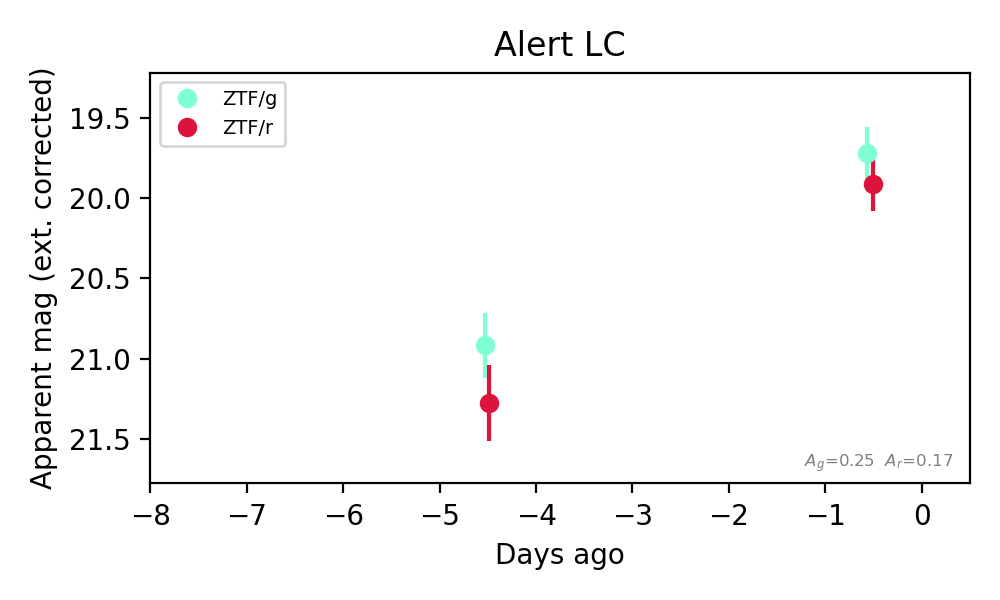
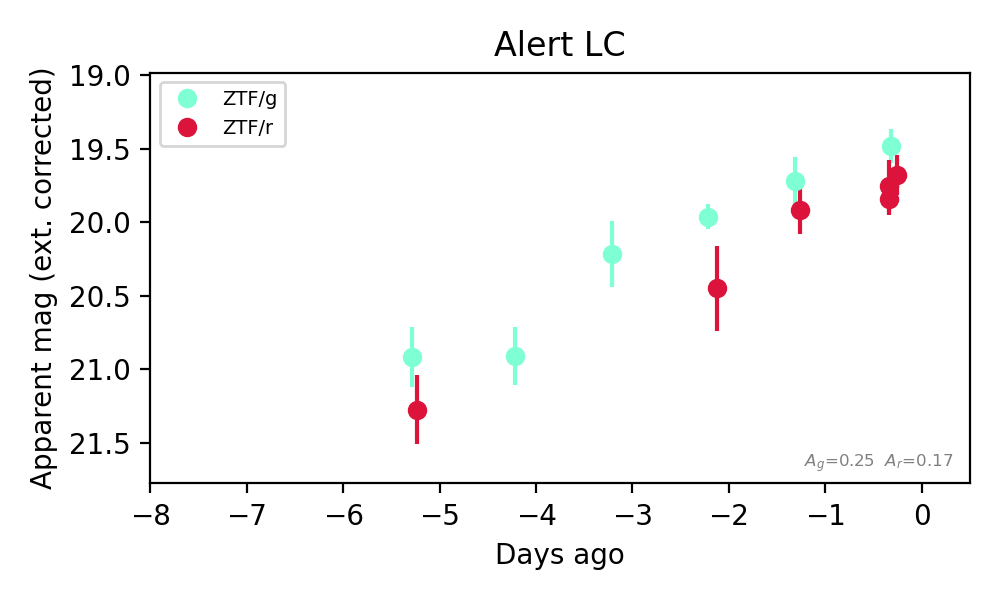
Update HTML from cron job on Tue Sep 15 07:16:22 AM EDT 2026

diff --git a/html/20260915_fastcand.html b/html/20260915_fastcand.html
@@ -1,0 +1,1 @@
+<!doctype html><html><head><title>SOURCE MARSHAL</title><style>                  * {                     box-sizing: border-box;                  }                /* Create two equal columns that floats next to each other */                .column {                         float: left;                         width: 50%;                         padding: 10px;                         #height: 220px; /* Should be removed. Only for demonstration */                }                /* Clear floats after the columns */                .row:after {                        content: "";                        display: table;                        clear: both;                }                /* Rounded corner definition */                #rcorners2 {                    border-radius: 15px;                    border: 2px solid #73AD21;                    padding: 15px;                     width: 80%;                }                table, th, td {                    border: 1px solid black;                    border-collapse: collapse;                }                th, td {                    padding: 5px;                }                th {                    text-align: right;                }                .boxed {                    width: 300px;                    border: 3px outset green;                    text-align: center;                    font-size: 20px;                    margin: 10px;                }                 </style></head><body><font size="5" color="green">Candidate List 20260915</font></br><font size="3" color="green">Last night &mdash; ZTF: 2,435 passed basic cuts (168 young) &middot; LSST: 0 passed basic cuts (0 young)</font></br></br><a href=20260914_fastcand.html target="_blank"><font size="3" color="green">Previous Day</font></a>&nbsp;&nbsp;&nbsp;&nbsp;<a href=20260916_fastcand.html target="_blank"><font size="3" color="green">Next Day</font></a>&nbsp;&nbsp;&nbsp;&nbsp;<br><br><font size="4" color="green"><a href="#sec1">Section 1: New Sources (age<1d)</a></font>&nbsp;&nbsp;&nbsp;&nbsp;<font size="4" color="green"><a href="#sec2">Section 2: Old (1-5d) sources observed last night</a></font></br><font size="1" color="white">placeholder</font></br><hr style="width:50%;text-align:left;margin-left:0"><br><div id="sec1"></div><div class="boxed">Section 1: New Afterglow/FBOT Cands Last Night (0)</div><br><br><br><div id="sec2"></div><div class="boxed">Section 2: Older Sources Observed Last Night (10)</div><div id="ZTF26abswzfk"></div>0. <a href="#ZTF26absxtws"><b><font size="3">[ZTF] ZTF26absxtws (FBOT?)</font></b></a>&nbsp;&nbsp;&nbsp;&nbsp;<a href=#top>[Back to Top]</a>&nbsp;&nbsp;&nbsp;&nbsp;<a href=./ZTF26absxtws_announcement.txt>[Share]</a>&nbsp;&nbsp;&nbsp;&nbsp;<a href=./ZTF26absxtws_swifttoo.txt>[Trigger Swift]</a></br>&nbsp;&nbsp;&nbsp;&nbsp;[<a href="https://fritz.science/brokers?objectId=ZTF26absxtws&survey=ZTF&ra=334.4473907&dec=-27.7288971&radius=3" target="_blank">Fritz Alert</a>]&nbsp;&nbsp;&nbsp;&nbsp;[<a href="https://fritz.science/source/ZTF26absxtws" target="_blank">Fritz Source</a>]&nbsp;&nbsp;&nbsp;&nbsp;[<a href="https://lasair-ztf.lsst.ac.uk/objects/ZTF26absxtws/" target="_blank">Lasair</a>]</br>RA, Dec: 334.44739, -27.7289&nbsp;&nbsp;&nbsp;&nbsp;22h17m47.37s, -27d-43m-44.03s</br>Galactic (l, b): 22.84422, -56.04122&nbsp;&nbsp;&nbsp;&nbsp;ext(g-r) = 0.017</br></br><img src="./ZTF26absxtws_triplet.png" height="200"><a href = http://ps1images.stsci.edu/cgi-bin/ps1cutouts?pos=334.447391-27.728897&filter=color&filter=g&filter=r&filter=i&filter=z&filter=y&filetypes=stack&auxiliary=data&size=240&output_size=240&verbose=0&autoscale=99.500000><img src="./ZTF26absxtws_ps1.png" height="200"></a><a href = http://legacysurvey.org/viewer?ra=334.447391&dec=-27.728897&zoom=16&layer=ls-dr10><img src="ZTF26absxtws_ls.png" height="200"></a></br><br><br>TESS: Sectors [  1  28  68  95 106]<br><br><br><br><br><b>PS1: 1 source in 3 arcsec</b>&nbsp;&nbsp;&nbsp;&nbsp;Closest: d = 0.35 arcsec&nbsp;&nbsp;&nbsp;&nbsp;photoz=0.44+/-0.36&nbsp;&nbsp;&nbsp;&nbsp;<b>peak abs mag = -23.60</b><br>LegacySurvey: 0 sources in 3 arcsec</br><br><img src="ZTF26absxtws_alert_lc.png" height="300"><br>Extinction-corrected gr color:<br>From alerts: -0.16 +/- 0.15 mag<br><br>Rise Rate:<br>g: 0.22 mag/day <br>r: 0.28 mag/day <br><br>Fade Rate:<br><br><br><div id="ZTF26absxhrh"></div>1. <a href="#ZTF26abthpmr"><b><font size="3">[ZTF] ZTF26abthpmr (FBOT?)</font></b></a>&nbsp;&nbsp;&nbsp;&nbsp;<a href=#top>[Back to Top]</a>&nbsp;&nbsp;&nbsp;&nbsp;<a href=./ZTF26abthpmr_announcement.txt>[Share]</a>&nbsp;&nbsp;&nbsp;&nbsp;<a href=./ZTF26abthpmr_swifttoo.txt>[Trigger Swift]</a></br>&nbsp;&nbsp;&nbsp;&nbsp;[<a href="https://fritz.science/brokers?objectId=ZTF26abthpmr&survey=ZTF&ra=346.1075752&dec=35.4085926&radius=3" target="_blank">Fritz Alert</a>]&nbsp;&nbsp;&nbsp;&nbsp;[<a href="https://fritz.science/source/ZTF26abthpmr" target="_blank">Fritz Source</a>]&nbsp;&nbsp;&nbsp;&nbsp;[<a href="https://lasair-ztf.lsst.ac.uk/objects/ZTF26abthpmr/" target="_blank">Lasair</a>]</br>RA, Dec: 346.10758, 35.40859&nbsp;&nbsp;&nbsp;&nbsp;23h 4m25.82s, 35d24m30.93s</br>Galactic (l, b): 99.5254, -22.55293&nbsp;&nbsp;&nbsp;&nbsp;ext(g-r) = 0.082</br></br><img src="./ZTF26abthpmr_triplet.png" height="200"><a href = http://ps1images.stsci.edu/cgi-bin/ps1cutouts?pos=346.107575+35.408593&filter=color&filter=g&filter=r&filter=i&filter=z&filter=y&filetypes=stack&auxiliary=data&size=240&output_size=240&verbose=0&autoscale=99.500000><img src="./ZTF26abthpmr_ps1.png" height="200"></a><a href = http://legacysurvey.org/viewer?ra=346.107575&dec=+35.408593&zoom=16&layer=ls-dr10><img src="ZTF26abthpmr_ls.png" height="200"></a></br><br><br>TESS: Sectors [16 56 83]<br><br><br><br><br><b>PS1: 1 source in 3 arcsec</b>&nbsp;&nbsp;&nbsp;&nbsp;Closest: d = 1.64 arcsec&nbsp;&nbsp;&nbsp;&nbsp;photoz=0.53+/-0.09&nbsp;&nbsp;&nbsp;&nbsp;<b>peak abs mag = -23.65</b><br>LegacySurvey: 0 sources in 3 arcsec</br><br><img src="ZTF26abthpmr_alert_lc.png" height="300"><br>Extinction-corrected gr color:<br>From alerts: -0.29 +/- 0.13 mag<br><br>Rise Rate:<br>g: 0.88 mag/day <br>r: 0.57 mag/day <br><br>Fade Rate:<br><br><br><div id="ZTF26absxtws"></div>2. <a href="#ZTF26abtqfyy"><b><font size="3">[ZTF] ZTF26abtqfyy (FBOT?)</font></b></a>&nbsp;&nbsp;&nbsp;&nbsp;<a href=#top>[Back to Top]</a>&nbsp;&nbsp;&nbsp;&nbsp;<a href=./ZTF26abtqfyy_announcement.txt>[Share]</a>&nbsp;&nbsp;&nbsp;&nbsp;<a href=./ZTF26abtqfyy_swifttoo.txt>[Trigger Swift]</a></br>&nbsp;&nbsp;&nbsp;&nbsp;[<a href="https://fritz.science/brokers?objectId=ZTF26abtqfyy&survey=ZTF&ra=342.96098645&dec=16.02354735&radius=3" target="_blank">Fritz Alert</a>]&nbsp;&nbsp;&nbsp;&nbsp;[<a href="https://fritz.science/source/ZTF26abtqfyy" target="_blank">Fritz Source</a>]&nbsp;&nbsp;&nbsp;&nbsp;[<a href="https://lasair-ztf.lsst.ac.uk/objects/ZTF26abtqfyy/" target="_blank">Lasair</a>]</br>RA, Dec: 342.96099, 16.02355&nbsp;&nbsp;&nbsp;&nbsp;22h51m50.64s, 16d 1m24.77s</br>Galactic (l, b): 85.48641, -38.00262&nbsp;&nbsp;&nbsp;&nbsp;ext(g-r) = 0.075</br></br><img src="./ZTF26abtqfyy_triplet.png" height="200"><a href = http://ps1images.stsci.edu/cgi-bin/ps1cutouts?pos=342.960986+16.023547&filter=color&filter=g&filter=r&filter=i&filter=z&filter=y&filetypes=stack&auxiliary=data&size=240&output_size=240&verbose=0&autoscale=99.500000><img src="./ZTF26abtqfyy_ps1.png" height="200"></a><a href = http://legacysurvey.org/viewer?ra=342.960986&dec=+16.023547&zoom=16&layer=ls-dr10><img src="ZTF26abtqfyy_ls.png" height="200"></a></br><br><br>TESS: Sectors [56 83]<br>SDSS (<15 kpc):Found SDSS phot-z: z=0.20; <b>peak abs mag = -20.22</b><br><br><br><br><b>PS1: 1 source in 3 arcsec</b>&nbsp;&nbsp;&nbsp;&nbsp;Closest: d = 0.20 arcsec&nbsp;&nbsp;&nbsp;&nbsp;photoz=0.55+/-0.08&nbsp;&nbsp;&nbsp;&nbsp;<b>peak abs mag = -22.80</b><br>LegacySurvey: 0 sources in 3 arcsec</br><br><img src="ZTF26abtqfyy_alert_lc.png" height="300"><br>Extinction-corrected gr color:<br>From alerts: -0.19 +/- 0.25 mag<br><b> Consistent with synchrotron, g-r>0!</b><br>Rise Rate:<br>g: 0.22 mag/day <br>r: 0.15 mag/day <br><br>Fade Rate:<br><br><br><div id="ZTF26abszebr"></div>3. <a href="#ZTF26abukalo"><b><font size="3">[ZTF] ZTF26abukalo (FBOT?)</font></b></a>&nbsp;&nbsp;&nbsp;&nbsp;<a href=#top>[Back to Top]</a>&nbsp;&nbsp;&nbsp;&nbsp;<a href=./ZTF26abukalo_announcement.txt>[Share]</a>&nbsp;&nbsp;&nbsp;&nbsp;<a href=./ZTF26abukalo_swifttoo.txt>[Trigger Swift]</a></br>&nbsp;&nbsp;&nbsp;&nbsp;[<a href="https://fritz.science/brokers?objectId=ZTF26abukalo&survey=ZTF&ra=281.2588126&dec=32.9438059&radius=3" target="_blank">Fritz Alert</a>]&nbsp;&nbsp;&nbsp;&nbsp;[<a href="https://fritz.science/source/ZTF26abukalo" target="_blank">Fritz Source</a>]&nbsp;&nbsp;&nbsp;&nbsp;[<a href="https://lasair-ztf.lsst.ac.uk/objects/ZTF26abukalo/" target="_blank">Lasair</a>]</br>RA, Dec: 281.25881, 32.94381&nbsp;&nbsp;&nbsp;&nbsp;18h45m2.12s, 32d56m37.70s</br>Galactic (l, b): 62.36396, 15.59491&nbsp;&nbsp;&nbsp;&nbsp;ext(g-r) = 0.08</br></br><img src="./ZTF26abukalo_triplet.png" height="200"><a href = http://ps1images.stsci.edu/cgi-bin/ps1cutouts?pos=281.258813+32.943806&filter=color&filter=g&filter=r&filter=i&filter=z&filter=y&filetypes=stack&auxiliary=data&size=240&output_size=240&verbose=0&autoscale=99.500000><img src="./ZTF26abukalo_ps1.png" height="200"></a><a href = http://legacysurvey.org/viewer?ra=281.258813&dec=+32.943806&zoom=16&layer=ls-dr10><img src="ZTF26abukalo_ls.png" height="200"></a></br><br><br>TESS: Sectors [ 26  53  54  74  80  81 118 119]<br><br><br><br><br><b>PS1: 1 source in 3 arcsec</b>&nbsp;&nbsp;&nbsp;&nbsp;Closest: d = 5.93 arcsec&nbsp;&nbsp;&nbsp;&nbsp;photoz=0.87+/-0.09&nbsp;&nbsp;&nbsp;&nbsp;<b>peak abs mag = -24.29</b><br>LegacySurvey: 0 sources in 3 arcsec</br><br><img src="ZTF26abukalo_alert_lc.png" height="300"><br>Extinction-corrected gr color:<br>From alerts: -0.29 +/- 0.14 mag<br><br>Rise Rate:<br>g: 0.31 mag/day <br>r: 0.31 mag/day <br><br>Fade Rate:<br><br><br><div id="ZTF26abtelxt"></div>4. <a href="#ZTF26abuktjp"><b><font size="3">[ZTF] ZTF26abuktjp (Afterglow?)</font></b></a>&nbsp;&nbsp;&nbsp;&nbsp;<a href=#top>[Back to Top]</a>&nbsp;&nbsp;&nbsp;&nbsp;<a href=./ZTF26abuktjp_announcement.txt>[Share]</a>&nbsp;&nbsp;&nbsp;&nbsp;<a href=./ZTF26abuktjp_swifttoo.txt>[Trigger Swift]</a></br>&nbsp;&nbsp;&nbsp;&nbsp;[<a href="https://fritz.science/brokers?objectId=ZTF26abuktjp&survey=ZTF&ra=312.7117752&dec=64.3475395&radius=3" target="_blank">Fritz Alert</a>]&nbsp;&nbsp;&nbsp;&nbsp;[<a href="https://fritz.science/source/ZTF26abuktjp" target="_blank">Fritz Source</a>]&nbsp;&nbsp;&nbsp;&nbsp;[<a href="https://lasair-ztf.lsst.ac.uk/objects/ZTF26abuktjp/" target="_blank">Lasair</a>]</br>RA, Dec: 312.71178, 64.34754&nbsp;&nbsp;&nbsp;&nbsp;20h50m50.83s, 64d20m51.14s</br>Galactic (l, b): 100.29854, 12.66547&nbsp;&nbsp;&nbsp;&nbsp;ext(g-r) = 0.55</br></br><img src="./ZTF26abuktjp_triplet.png" height="200"><a href = http://ps1images.stsci.edu/cgi-bin/ps1cutouts?pos=312.711775+64.347539&filter=color&filter=g&filter=r&filter=i&filter=z&filter=y&filetypes=stack&auxiliary=data&size=240&output_size=240&verbose=0&autoscale=99.500000><img src="./ZTF26abuktjp_ps1.png" height="200"></a><a href = http://legacysurvey.org/viewer?ra=312.711775&dec=+64.347539&zoom=16&layer=ls-dr10><img src="ZTF26abuktjp_ls.png" height="200"></a></br><br><br>TESS: Sectors [ 15  17  18  24  56  57  58  76  77  78  83  84  85 121]<br><br><br><br><br><b>PS1: 1 source in 3 arcsec</b>&nbsp;&nbsp;&nbsp;&nbsp;Closest: d = 3.55 arcsec&nbsp;&nbsp;&nbsp;&nbsp;photoz=0.04+/-0.03&nbsp;&nbsp;&nbsp;&nbsp;<b>peak abs mag = -19.15</b><br>LegacySurvey: 0 sources in 3 arcsec</br><br><img src="ZTF26abuktjp_alert_lc.png" height="300"><br>Extinction-corrected gr color:<br>From alerts: -0.26 +/- 0.27 mag<br><b> Consistent with synchrotron, g-r>0!</b><br>Rise Rate:<br>g: 1.97 mag/day <br>r: 0.1 mag/day <br><br>Fade Rate:<br>g: 1.83 mag/day <br><br><br><div id="ZTF26abthjlj"></div>5. <a href="#ZTF26abuuzad"><b><font size="3">[ZTF] ZTF26abuuzad (Afterglow?)</font></b></a>&nbsp;&nbsp;&nbsp;&nbsp;<a href=#top>[Back to Top]</a>&nbsp;&nbsp;&nbsp;&nbsp;<a href=./ZTF26abuuzad_announcement.txt>[Share]</a>&nbsp;&nbsp;&nbsp;&nbsp;<a href=./ZTF26abuuzad_swifttoo.txt>[Trigger Swift]</a></br>&nbsp;&nbsp;&nbsp;&nbsp;[<a href="https://fritz.science/brokers?objectId=ZTF26abuuzad&survey=ZTF&ra=297.6912824&dec=-2.8724336&radius=3" target="_blank">Fritz Alert</a>]&nbsp;&nbsp;&nbsp;&nbsp;[<a href="https://fritz.science/source/ZTF26abuuzad" target="_blank">Fritz Source</a>]&nbsp;&nbsp;&nbsp;&nbsp;[<a href="https://lasair-ztf.lsst.ac.uk/objects/ZTF26abuuzad/" target="_blank">Lasair</a>]</br>RA, Dec: 297.69128, -2.87243&nbsp;&nbsp;&nbsp;&nbsp;19h50m45.91s, -2d-52m-20.76s</br>Galactic (l, b): 37.19557, -14.50032&nbsp;&nbsp;&nbsp;&nbsp;ext(g-r) = 0.33</br></br><img src="./ZTF26abuuzad_triplet.png" height="200"><a href = http://ps1images.stsci.edu/cgi-bin/ps1cutouts?pos=297.691282-2.872434&filter=color&filter=g&filter=r&filter=i&filter=z&filter=y&filetypes=stack&auxiliary=data&size=240&output_size=240&verbose=0&autoscale=99.500000><img src="./ZTF26abuuzad_ps1.png" height="200"></a><a href = http://legacysurvey.org/viewer?ra=297.691282&dec=-2.872434&zoom=16&layer=ls-dr10><img src="ZTF26abuuzad_ls.png" height="200"></a></br><br><br>TESS: Sectors 81<br><br><br><br><br>PS1: 0 sources in 3 arcsec</br><br>LegacySurvey: 0 sources in 3 arcsec</br><br><img src="ZTF26abuuzad_alert_lc.png" height="300"><br>Extinction-corrected gr color:<br>From alerts: -1.03 +/- 99 mag<br>Extinction-corrected gi color:<br>From alerts: 0.0 +/- 0.49 mag<br>Extinction-corrected ri color:<br>From alerts: 0.94 +/- 99 mag<br><b> Consistent with synchrotron, g-r>0!</b><br>Rise Rate:<br>i: 0.83 mag/day <br><br>Fade Rate:<br><br><br><div id="ZTF26abtlnpi"></div>6. <a href="#ZTF26abuvcov"><b><font size="3">[ZTF] ZTF26abuvcov (Afterglow?)</font></b></a>&nbsp;&nbsp;&nbsp;&nbsp;<a href=#top>[Back to Top]</a>&nbsp;&nbsp;&nbsp;&nbsp;<a href=./ZTF26abuvcov_announcement.txt>[Share]</a>&nbsp;&nbsp;&nbsp;&nbsp;<a href=./ZTF26abuvcov_swifttoo.txt>[Trigger Swift]</a></br>&nbsp;&nbsp;&nbsp;&nbsp;[<a href="https://fritz.science/brokers?objectId=ZTF26abuvcov&survey=ZTF&ra=273.8637819&dec=-11.4484624&radius=3" target="_blank">Fritz Alert</a>]&nbsp;&nbsp;&nbsp;&nbsp;[<a href="https://fritz.science/source/ZTF26abuvcov" target="_blank">Fritz Source</a>]&nbsp;&nbsp;&nbsp;&nbsp;[<a href="https://lasair-ztf.lsst.ac.uk/objects/ZTF26abuvcov/" target="_blank">Lasair</a>]</br>RA, Dec: 273.86378, -11.44846&nbsp;&nbsp;&nbsp;&nbsp;18h15m27.31s, -11d-26m-54.46s</br>Galactic (l, b): 18.6443, 2.62985&nbsp;&nbsp;&nbsp;&nbsp;ext(g-r) = 1.572</br></br><img src="./ZTF26abuvcov_triplet.png" height="200"><a href = http://ps1images.stsci.edu/cgi-bin/ps1cutouts?pos=273.863782-11.448462&filter=color&filter=g&filter=r&filter=i&filter=z&filter=y&filetypes=stack&auxiliary=data&size=240&output_size=240&verbose=0&autoscale=99.500000><img src="./ZTF26abuvcov_ps1.png" height="200"></a><a href = http://legacysurvey.org/viewer?ra=273.863782&dec=-11.448462&zoom=16&layer=ls-dr10><img src="ZTF26abuvcov_ls.png" height="200"></a></br><br><br>TESS: Sectors [ 80  91 118]<br><br><br><br><br><b>PS1: 1 source in 3 arcsec</b>&nbsp;&nbsp;&nbsp;&nbsp;Closest: d = 1.10 arcsec&nbsp;&nbsp;&nbsp;&nbsp;photoz=0.65+/-0.16&nbsp;&nbsp;&nbsp;&nbsp;<b>peak abs mag = -29.56</b><br>LegacySurvey: 0 sources in 3 arcsec</br><br><img src="ZTF26abuvcov_alert_lc.png" height="300"><br>Extinction-corrected gr color:<br>From alerts: -0.63 +/- 99 mag<br><br>Rise Rate:<br>g: 2.17 mag/day <br>r: 0.94 mag/day <br><br>Fade Rate:<br>g: 1.94 mag/day <br><br><br><div id="ZTF26abthpmr"></div>7. <a href="#ZTF26abuwnoq"><b><font size="3">[ZTF] ZTF26abuwnoq (FBOT?)</font></b></a>&nbsp;&nbsp;&nbsp;&nbsp;<a href=#top>[Back to Top]</a>&nbsp;&nbsp;&nbsp;&nbsp;<a href=./ZTF26abuwnoq_announcement.txt>[Share]</a>&nbsp;&nbsp;&nbsp;&nbsp;<a href=./ZTF26abuwnoq_swifttoo.txt>[Trigger Swift]</a></br>&nbsp;&nbsp;&nbsp;&nbsp;[<a href="https://fritz.science/brokers?objectId=ZTF26abuwnoq&survey=ZTF&ra=346.1547631&dec=60.5801415&radius=3" target="_blank">Fritz Alert</a>]&nbsp;&nbsp;&nbsp;&nbsp;[<a href="https://fritz.science/source/ZTF26abuwnoq" target="_blank">Fritz Source</a>]&nbsp;&nbsp;&nbsp;&nbsp;[<a href="https://lasair-ztf.lsst.ac.uk/objects/ZTF26abuwnoq/" target="_blank">Lasair</a>]</br>RA, Dec: 346.15476, 60.58014&nbsp;&nbsp;&nbsp;&nbsp;23h 4m37.14s, 60d34m48.51s</br>Galactic (l, b): 110.17889, 0.38075&nbsp;&nbsp;&nbsp;&nbsp;ext(g-r) = 2.281</br></br><img src="./ZTF26abuwnoq_triplet.png" height="200"><a href = http://ps1images.stsci.edu/cgi-bin/ps1cutouts?pos=346.154763+60.580142&filter=color&filter=g&filter=r&filter=i&filter=z&filter=y&filetypes=stack&auxiliary=data&size=240&output_size=240&verbose=0&autoscale=99.500000><img src="./ZTF26abuwnoq_ps1.png" height="200"></a><a href = http://legacysurvey.org/viewer?ra=346.154763&dec=+60.580142&zoom=16&layer=ls-dr10><img src="ZTF26abuwnoq_ls.png" height="200"></a></br><br><br>TESS: Sectors [24 57 58 77 78 84 85]<br><br><br><br><br><b>PS1: 1 source in 3 arcsec</b>&nbsp;&nbsp;&nbsp;&nbsp;Closest: d = 3.90 arcsec&nbsp;&nbsp;&nbsp;&nbsp;photoz=0.08+/-0.60&nbsp;&nbsp;&nbsp;&nbsp;<b>peak abs mag = -23.14</b><br>LegacySurvey: 0 sources in 3 arcsec</br><br><img src="ZTF26abuwnoq_alert_lc.png" height="300"><br>Extinction-corrected gr color:<br>From alerts: -3.33 +/- 99 mag<br><br>Rise Rate:<br>r: 1.27 mag/day <br><br>Fade Rate:<br><br><br><div id="ZTF26abtpoev"></div>8. <a href="#ZTF26abuwuyx"><b><font size="3">[ZTF] ZTF26abuwuyx (Afterglow?)</font></b></a>&nbsp;&nbsp;&nbsp;&nbsp;<a href=#top>[Back to Top]</a>&nbsp;&nbsp;&nbsp;&nbsp;<a href=./ZTF26abuwuyx_announcement.txt>[Share]</a>&nbsp;&nbsp;&nbsp;&nbsp;<a href=./ZTF26abuwuyx_swifttoo.txt>[Trigger Swift]</a></br>&nbsp;&nbsp;&nbsp;&nbsp;[<a href="https://fritz.science/brokers?objectId=ZTF26abuwuyx&survey=ZTF&ra=330.2720579&dec=-11.4392906&radius=3" target="_blank">Fritz Alert</a>]&nbsp;&nbsp;&nbsp;&nbsp;[<a href="https://fritz.science/source/ZTF26abuwuyx" target="_blank">Fritz Source</a>]&nbsp;&nbsp;&nbsp;&nbsp;[<a href="https://lasair-ztf.lsst.ac.uk/objects/ZTF26abuwuyx/" target="_blank">Lasair</a>]</br>RA, Dec: 330.27206, -11.43929&nbsp;&nbsp;&nbsp;&nbsp;22h 1m5.29s, -11d-26m-21.45s</br>Galactic (l, b): 45.88337, -47.11059&nbsp;&nbsp;&nbsp;&nbsp;<b>WARNING:</b> 0.65 deg from ecliptic plane&nbsp;&nbsp;&nbsp;&nbsp;ext(g-r) = 0.056</br></br><img src="./ZTF26abuwuyx_triplet.png" height="200"><a href = http://ps1images.stsci.edu/cgi-bin/ps1cutouts?pos=330.272058-11.439291&filter=color&filter=g&filter=r&filter=i&filter=z&filter=y&filetypes=stack&auxiliary=data&size=240&output_size=240&verbose=0&autoscale=99.500000><img src="./ZTF26abuwuyx_ps1.png" height="200"></a><a href = http://legacysurvey.org/viewer?ra=330.272058&dec=-11.439291&zoom=16&layer=ls-dr10><img src="ZTF26abuwuyx_ls.png" height="200"></a></br><br><br>TESS: Sectors 116<br><br><br><br><br><b>PS1: 1 source in 3 arcsec</b>&nbsp;&nbsp;&nbsp;&nbsp;Closest: d = -999.00 arcsec&nbsp;&nbsp;&nbsp;&nbsp;photoz=1.18+/-1.45&nbsp;&nbsp;&nbsp;&nbsp;<b>peak abs mag = -25.07</b><br>LegacySurvey: 0 sources in 3 arcsec</br><br><img src="ZTF26abuwuyx_alert_lc.png" height="300"><br>Extinction-corrected gr color:<br>From alerts: 0.82 +/- 99 mag<br>Extinction-corrected ri color:<br>From alerts: -0.38 +/- 99 mag<br><br>Rise Rate:<br>r: 0.66 mag/day <br><br>Fade Rate:<br>r: 0.96 mag/day <br><br><br><div id="ZTF26abtqfyy"></div>9. <a href="#ZTF26abuxgrc"><b><font size="3">[ZTF] ZTF26abuxgrc (FBOT?)</font></b></a>&nbsp;&nbsp;&nbsp;&nbsp;<a href=#top>[Back to Top]</a>&nbsp;&nbsp;&nbsp;&nbsp;<a href=./ZTF26abuxgrc_announcement.txt>[Share]</a>&nbsp;&nbsp;&nbsp;&nbsp;<a href=./ZTF26abuxgrc_swifttoo.txt>[Trigger Swift]</a></br>&nbsp;&nbsp;&nbsp;&nbsp;[<a href="https://fritz.science/brokers?objectId=ZTF26abuxgrc&survey=ZTF&ra=344.6594841&dec=0.1751312&radius=3" target="_blank">Fritz Alert</a>]&nbsp;&nbsp;&nbsp;&nbsp;[<a href="https://fritz.science/source/ZTF26abuxgrc" target="_blank">Fritz Source</a>]&nbsp;&nbsp;&nbsp;&nbsp;[<a href="https://lasair-ztf.lsst.ac.uk/objects/ZTF26abuxgrc/" target="_blank">Lasair</a>]</br>RA, Dec: 344.65948, 0.17513&nbsp;&nbsp;&nbsp;&nbsp;22h58m38.28s,  0d10m30.47s</br>Galactic (l, b): 73.50085, -51.53167&nbsp;&nbsp;&nbsp;&nbsp;ext(g-r) = 0.096</br></br><img src="./ZTF26abuxgrc_triplet.png" height="200"><a href = http://ps1images.stsci.edu/cgi-bin/ps1cutouts?pos=344.659484+0.175131&filter=color&filter=g&filter=r&filter=i&filter=z&filter=y&filetypes=stack&auxiliary=data&size=240&output_size=240&verbose=0&autoscale=99.500000><img src="./ZTF26abuxgrc_ps1.png" height="200"></a><a href = http://legacysurvey.org/viewer?ra=344.659484&dec=+0.175131&zoom=16&layer=ls-dr10><img src="ZTF26abuxgrc_ls.png" height="200"></a></br><br><br>TESS: Sectors [42 70]<br>SDSS (<15 kpc):Found SDSS phot-z: z=0.33; <b>peak abs mag = -21.30</b><br><br><br><br><b>PS1: 1 source in 3 arcsec</b>&nbsp;&nbsp;&nbsp;&nbsp;Closest: d = 0.51 arcsec&nbsp;&nbsp;&nbsp;&nbsp;photoz=0.41+/-0.09&nbsp;&nbsp;&nbsp;&nbsp;<b>peak abs mag = -21.90</b><br>LegacySurvey: 0 sources in 3 arcsec</br><br><img src="ZTF26abuxgrc_alert_lc.png" height="300"><br>Extinction-corrected gr color:<br>From alerts: -0.34 +/- 0.26 mag<br>Extinction-corrected gi color:<br>From alerts: -0.08 +/- 0.25 mag<br>Extinction-corrected ri color:<br>From alerts: 0.27 +/- 0.33 mag<br><b> Consistent with synchrotron, g-r>0!</b><br>Rise Rate:<br>g: 0.18 mag/day <br>r: 0.27 mag/day <br><br>Fade Rate:<br><br><br><br>
